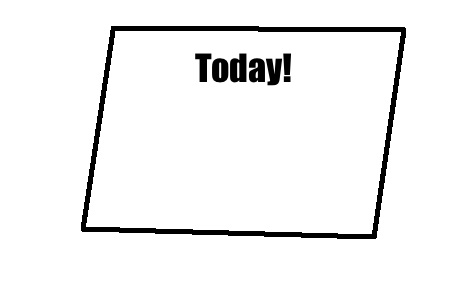
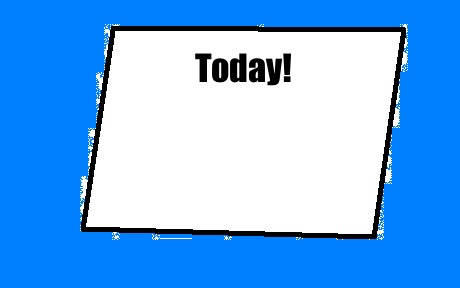
Change clickable words to clickable images
.gitignore - Add venv
static/ image jpgs - add colors to backgrounds.
static/Random.jpg - New image of question mark
static/examples.css - move "flash_req" to style.css
static/style.css - add image tile column scheme (from
http://css-tricks.com/seamless-responsive-photo-grid/)
templates/story_index.html - Change clickable words to clickable images
templates/about.html - Connect genres with the images. Label Github
link.
templates/prompt.html - Fix SoundCloud name

diff --git a/templates/about.html b/templates/about.html
@@ -8,7 +8,7 @@
     
     <p>At <a href="https://www.hackerleague.org/hackathons/story-hack-boston"> Story Hack Boston 2012</a>, we were faced with a Record button and nothing to talk about. Brian was inspired by his young daughter Zoe's persistent request for the same bedtime story. How about a tool for inspiring a new story that she would find interesting, and he could riff on spontaneously? That's how the Fable story type came to be.</p> 
     
-    <p>Glenn and Erin offered ideas for more ways to inspire a story from grownups, in the manner of NPR's <a href="http://www.npr.org/series/4516989/storycorps">StoryCorps</a>. So we added Personal stories, and News to encourage commentary on current events. The "Madlibs" scheme for assembling prompts is extensible and we encourage suggestions for additions. You'll find the project at <a href="https://github.com/BDFife/StoryPrompter">StoryPrompter</a>.</p>
+    <p>Glenn and Erin offered ideas for more ways to inspire a story from grownups, in the manner of NPR's <a href="http://www.npr.org/series/4516989/storycorps">StoryCorps</a>. So we added Personal stories, and News to encourage commentary on current events. The "Madlibs" scheme for assembling prompts is extensible and we encourage suggestions for additions. You'll find the project at <a href="https://github.com/BDFife/StoryPrompter">GitHub</a>.</p>
     
     <p>We're not accumulating stories for a public page. Our thought is to give you a tool to use to capture your own family's voices to your personal SoundCloud account. You can see a list of stories generated by searching for the soundcloud tag "storyprompter"</p>
     
@@ -17,6 +17,20 @@
     <p>Of course, after all that work, Zoe still wants to hear the same familiar story, but we know she'll grow out of it someday!</p>
     
     <br>
+    
+    <p>The genre images are: 
+    <ul>
+	<li><img src="{{url_for('static', filename='Fable.jpg')}}" 
+            width=30 height=18 border="0">Fable
+    <li><img src="{{url_for('static', filename='Personal.jpg')}}" 
+            width=30 height=18 border="0">Personal
+    <li><img src="{{url_for('static', filename='News.jpg')}}" 
+            width=30 height=18 border="0">News
+    <li><img src="{{url_for('static', filename='Random.jpg')}}" 
+            width=30 height=18 border="0">Random selection from the other genres. 
+
+	</ul>
+
     <br>
     {% block nav %}
     <li><a href="{{url_for('index')}}"><strong>Back</strong></a></li>

diff --git a/templates/story_index.html b/templates/story_index.html
@@ -7,17 +7,26 @@
     </head>
     <body>
     
-    <h2><font >Tell me a story. Pick one of the suggestions below to get started.
-        <div id="nav">
+    <h2><font >Tell me a story. Click one of the pictures below to get started.
+        <div id="tiles">
         <br>
-            <ul>
-                <li><a href="{{url_for('show_story',type='Fable')}}">Fable</a></li>
-                <li><a href="{{url_for('show_story',type='Personal')}}">Personal</a></li>
-                <li><a href="{{url_for('show_story',type='News')}}">News</a></li>
-                <li><a href="{{url_for('show_story',type='Random')}}">Random</a></li>
-            </ul>
-        </div></h2>
-        
+        <a href="{{url_for('show_story',type='Fable')}}">
+          <img src="{{url_for('static', filename='Fable.jpg')}}" 
+            width=300 height=188 border="0" alt="Fable"></a>
+
+        <a href="{{url_for('show_story',type='News')}}">
+          <img src="{{url_for('static', filename='News.jpg')}}" 
+            width=300 height=188 border="0" alt="News"></a>
+
+        <a href="{{url_for('show_story',type='Personal')}}">
+          <img src="{{url_for('static', filename='Personal.jpg')}}" 
+            width=300 height=188 border="0" alt="Personal"></a>
+
+        <a href="{{url_for('show_story',type='Random')}}">
+          <img src="{{url_for('static', filename='Random.jpg')}}" 
+            width=300 height=188 border="0" alt="Random"></a>
+                  
+        </div></h2>       
         
         <a href="{{url_for('about')}}"><strong>About StoryPrompter</a>
     </body>

diff --git a/static/style.css b/static/style.css
@@ -1,3 +1,35 @@
 body {
-	background-color: grey;
+	background-color: lightblue;
+}
+
+#flash_req {
+  text-align: center;
+}
+
+* {
+    margin: 0;
+    padding: 0;
+}
+
+p {
+    margin: 0;
+    padding: 5;
+}
+
+#tiles {
+   /* Prevent vertical gaps */
+   line-height: 0;
+   
+   -webkit-column-count: 3;
+   -webkit-column-gap:   0px;
+   -moz-column-count:    3;
+   -moz-column-gap:      0px;
+   column-count:         3;
+   column-gap:           0px;
+   
+}
+#tiles img {
+  /* Just in case there are inline attributes */
+  width: 100% !important;
+  height: auto !important;
 }

diff --git a/templates/prompt.html b/templates/prompt.html
@@ -13,7 +13,7 @@
   
     <H1>{{ story_string|safe }}</H1>
   
-    <p>Please use the widget below to record your story to soundcloud!</p>
+    <p>Please click the Record button below to record your story to SoundCloud!</p>
   
     <div id="recorderUI" class="reset">
       <a href="#" id="controlButton" class="record" name="controlButton"><span id="timer" class="hidden">0:00</span></a>

diff --git a/static/examples.css b/static/examples.css
@@ -89,8 +89,3 @@
 
 
 #controlButton.pause { background-position: 0 -252px; }
-
-#flash_req {
-  text-align: center;
-}
-
